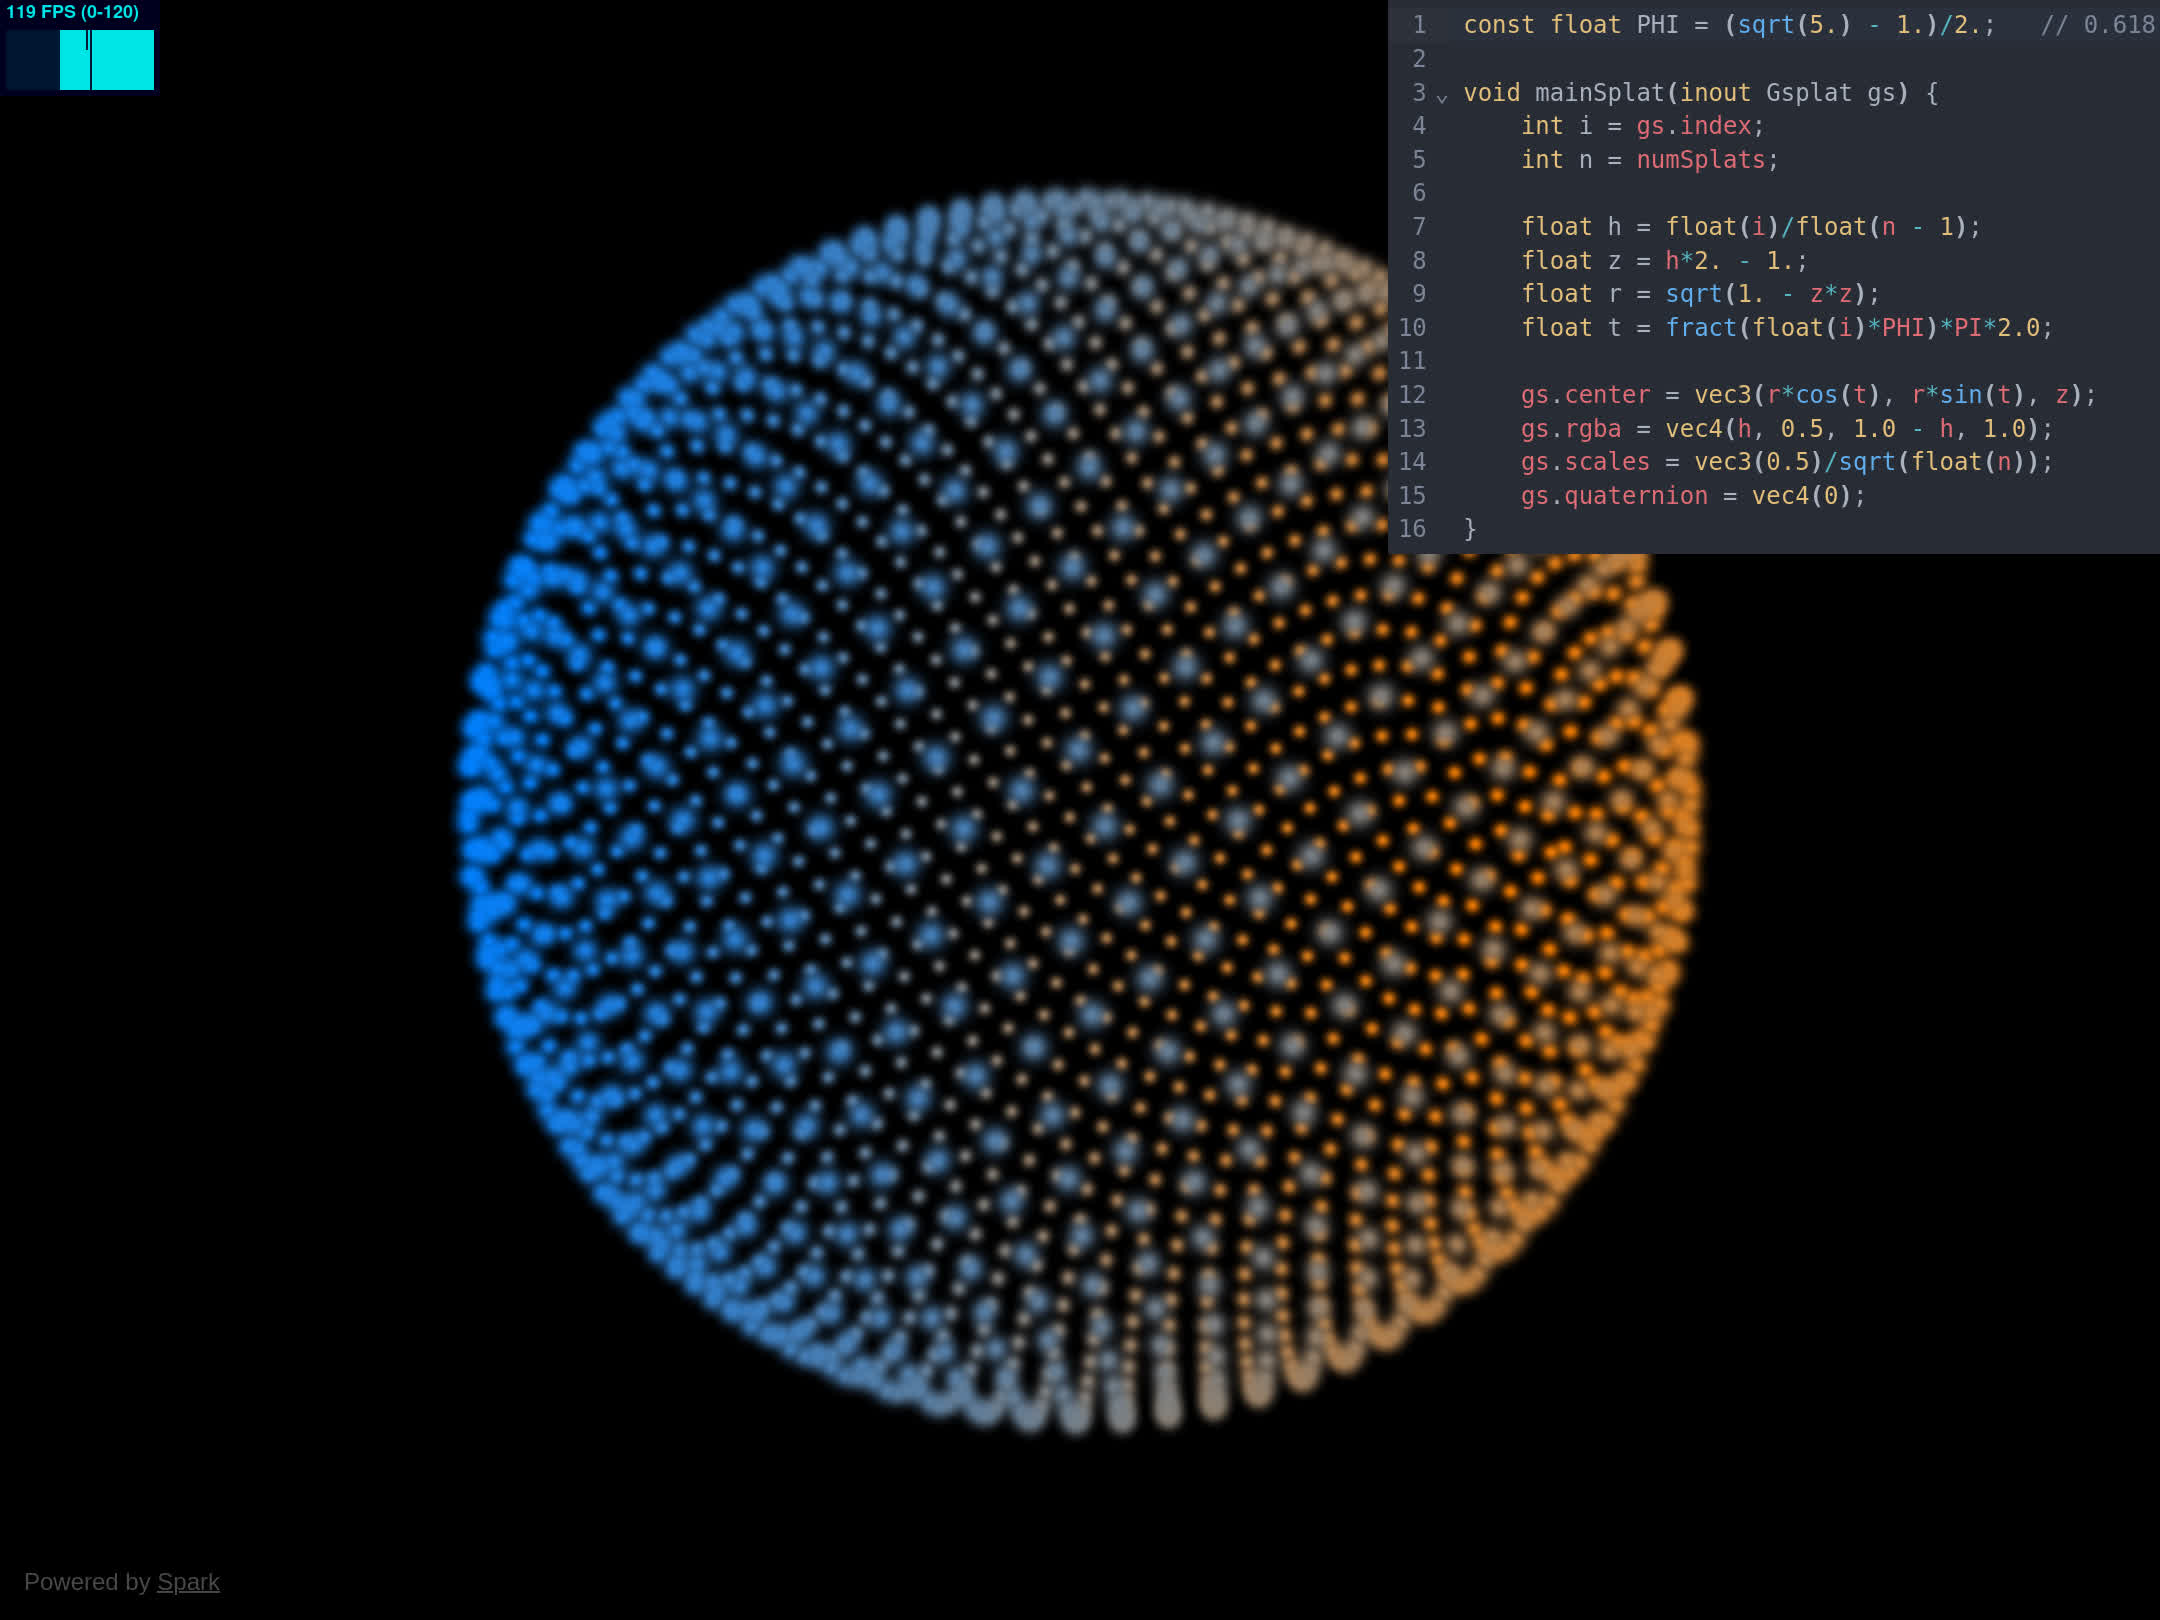
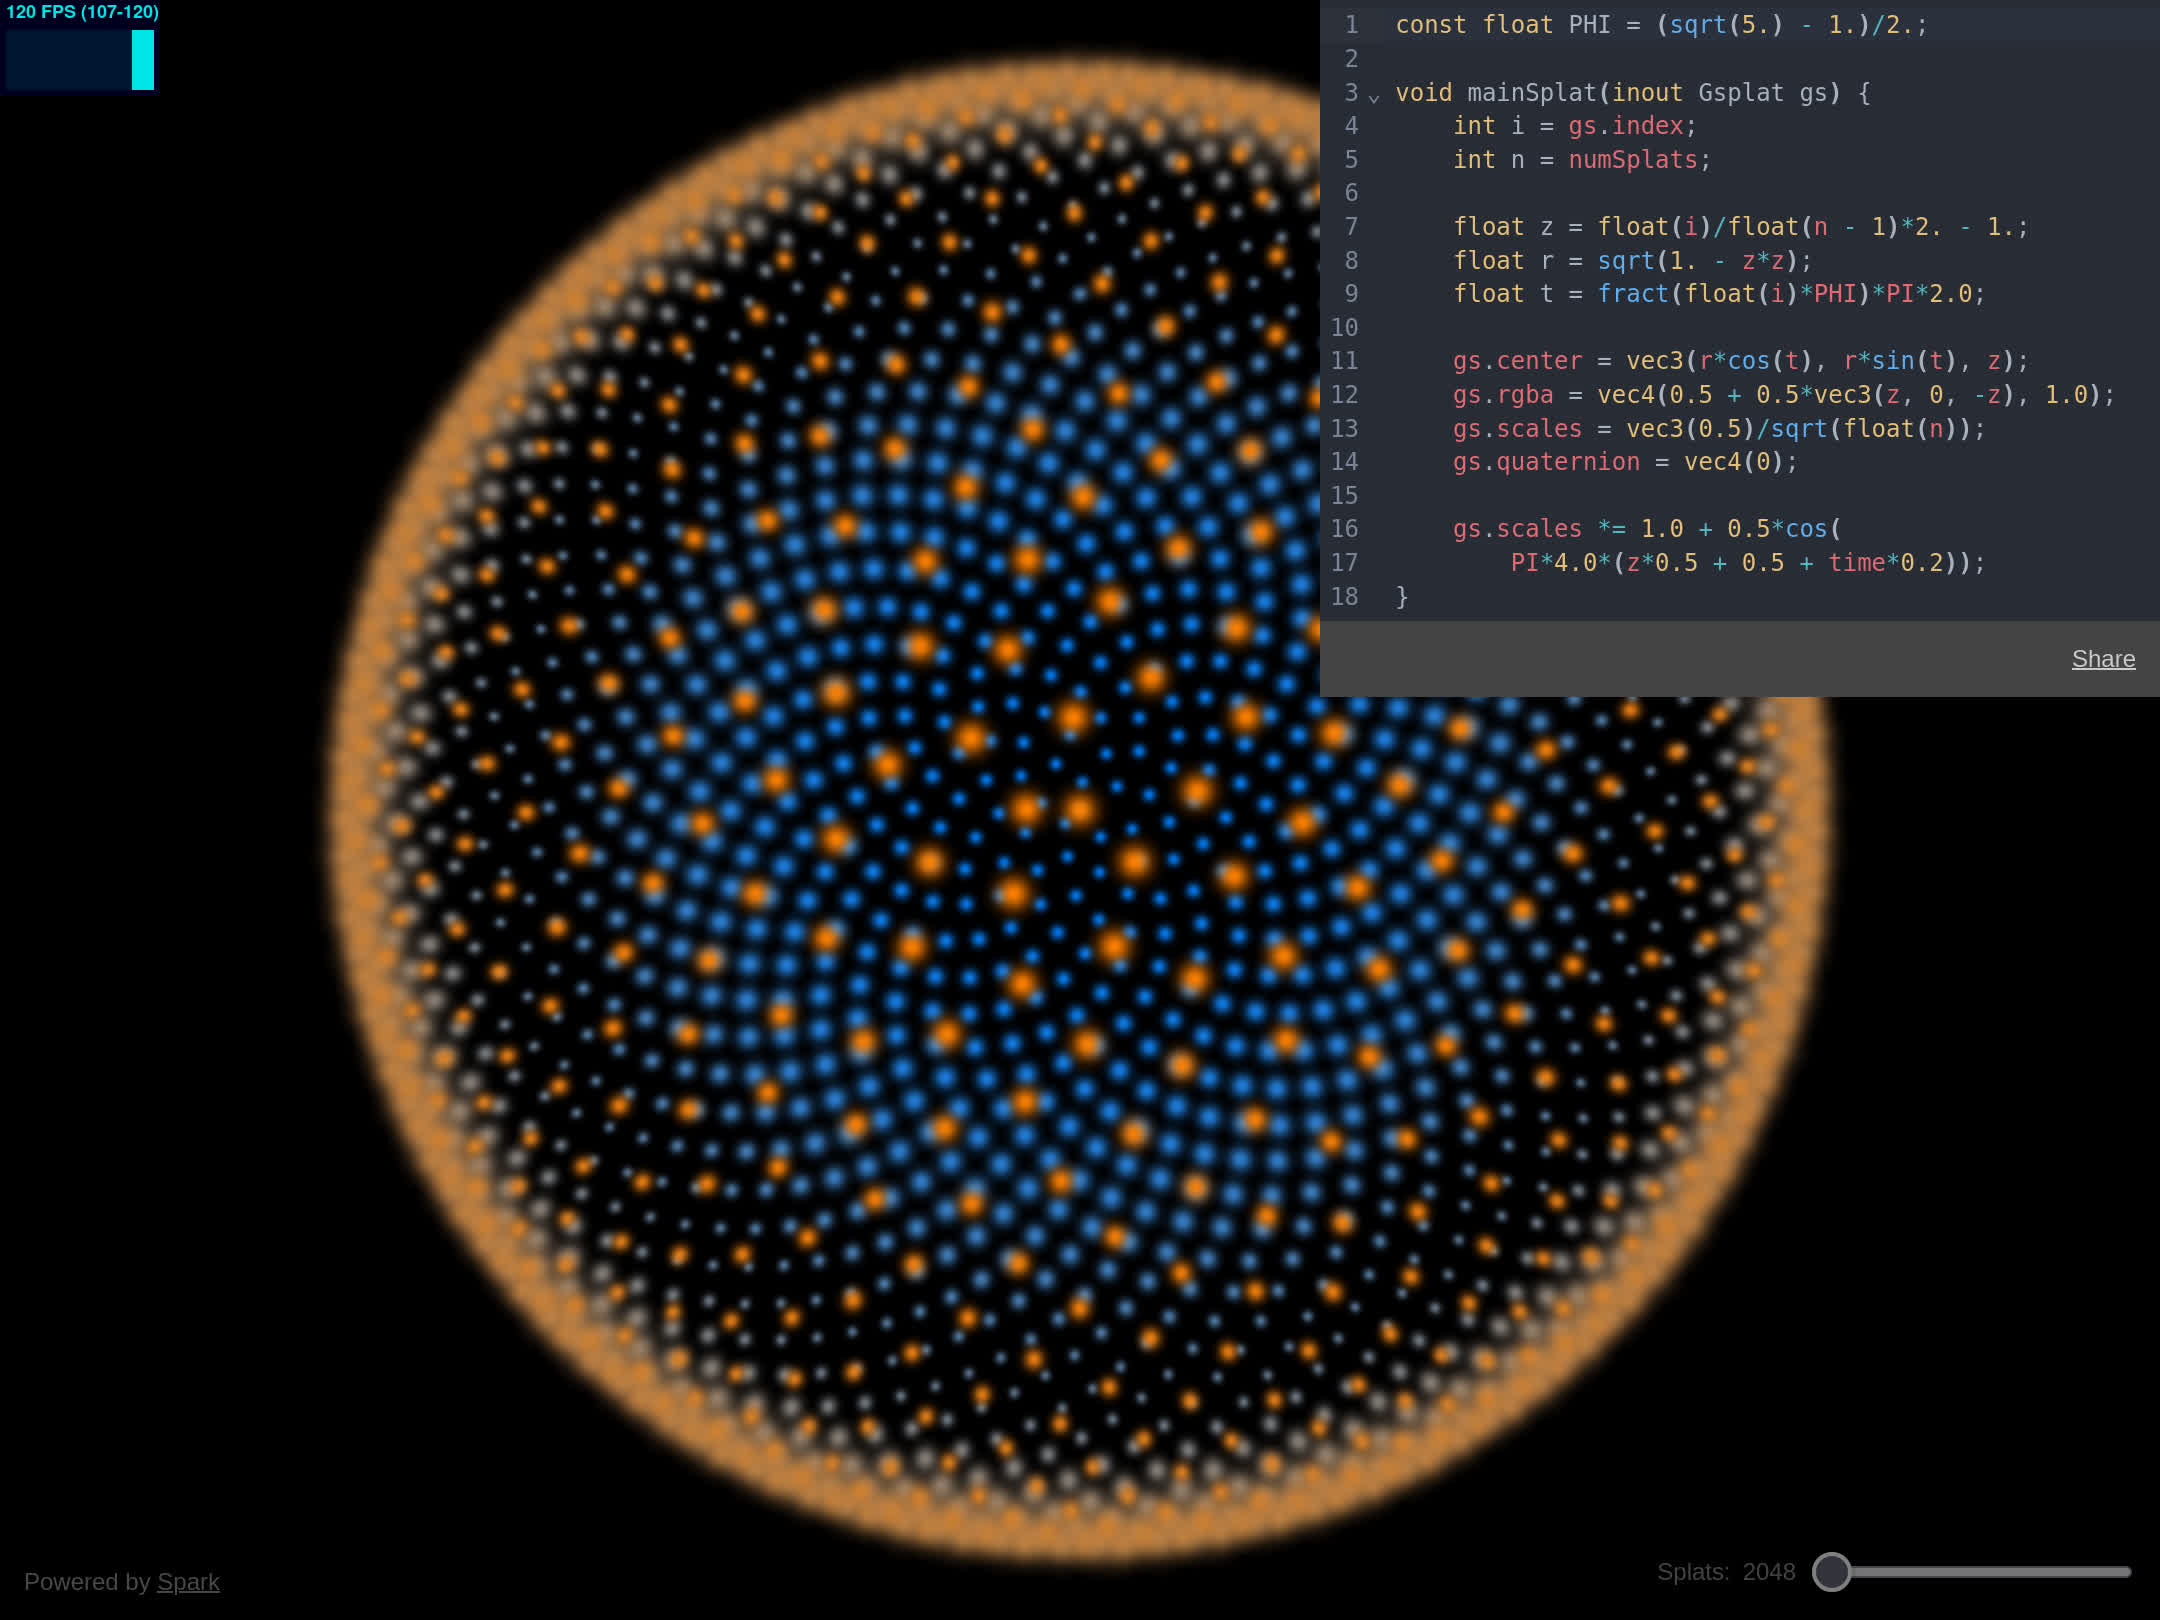
Updated screenshot.jpg

diff --git a/index.html b/index.html
@@ -122,7 +122,7 @@
 
     <script id="splat-glsl" type="x-shader/x-fragment">
         const float PHI = (sqrt(5.) - 1.)/2.;
-        
+
         void mainSplat(inout Gsplat gs) {
             int i = gs.index;
             int n = numSplats;
@@ -135,6 +135,9 @@
             gs.rgba = vec4(0.5 + 0.5*vec3(z, 0, -z), 1.0);
             gs.scales = vec3(0.5)/sqrt(float(n));
             gs.quaternion = vec4(0);
+
+            gs.scales *= 1.0 + 0.5*cos(
+                PI*4.0*(z*0.5 + 0.5 + time*0.2));
         }
     </script>
 
